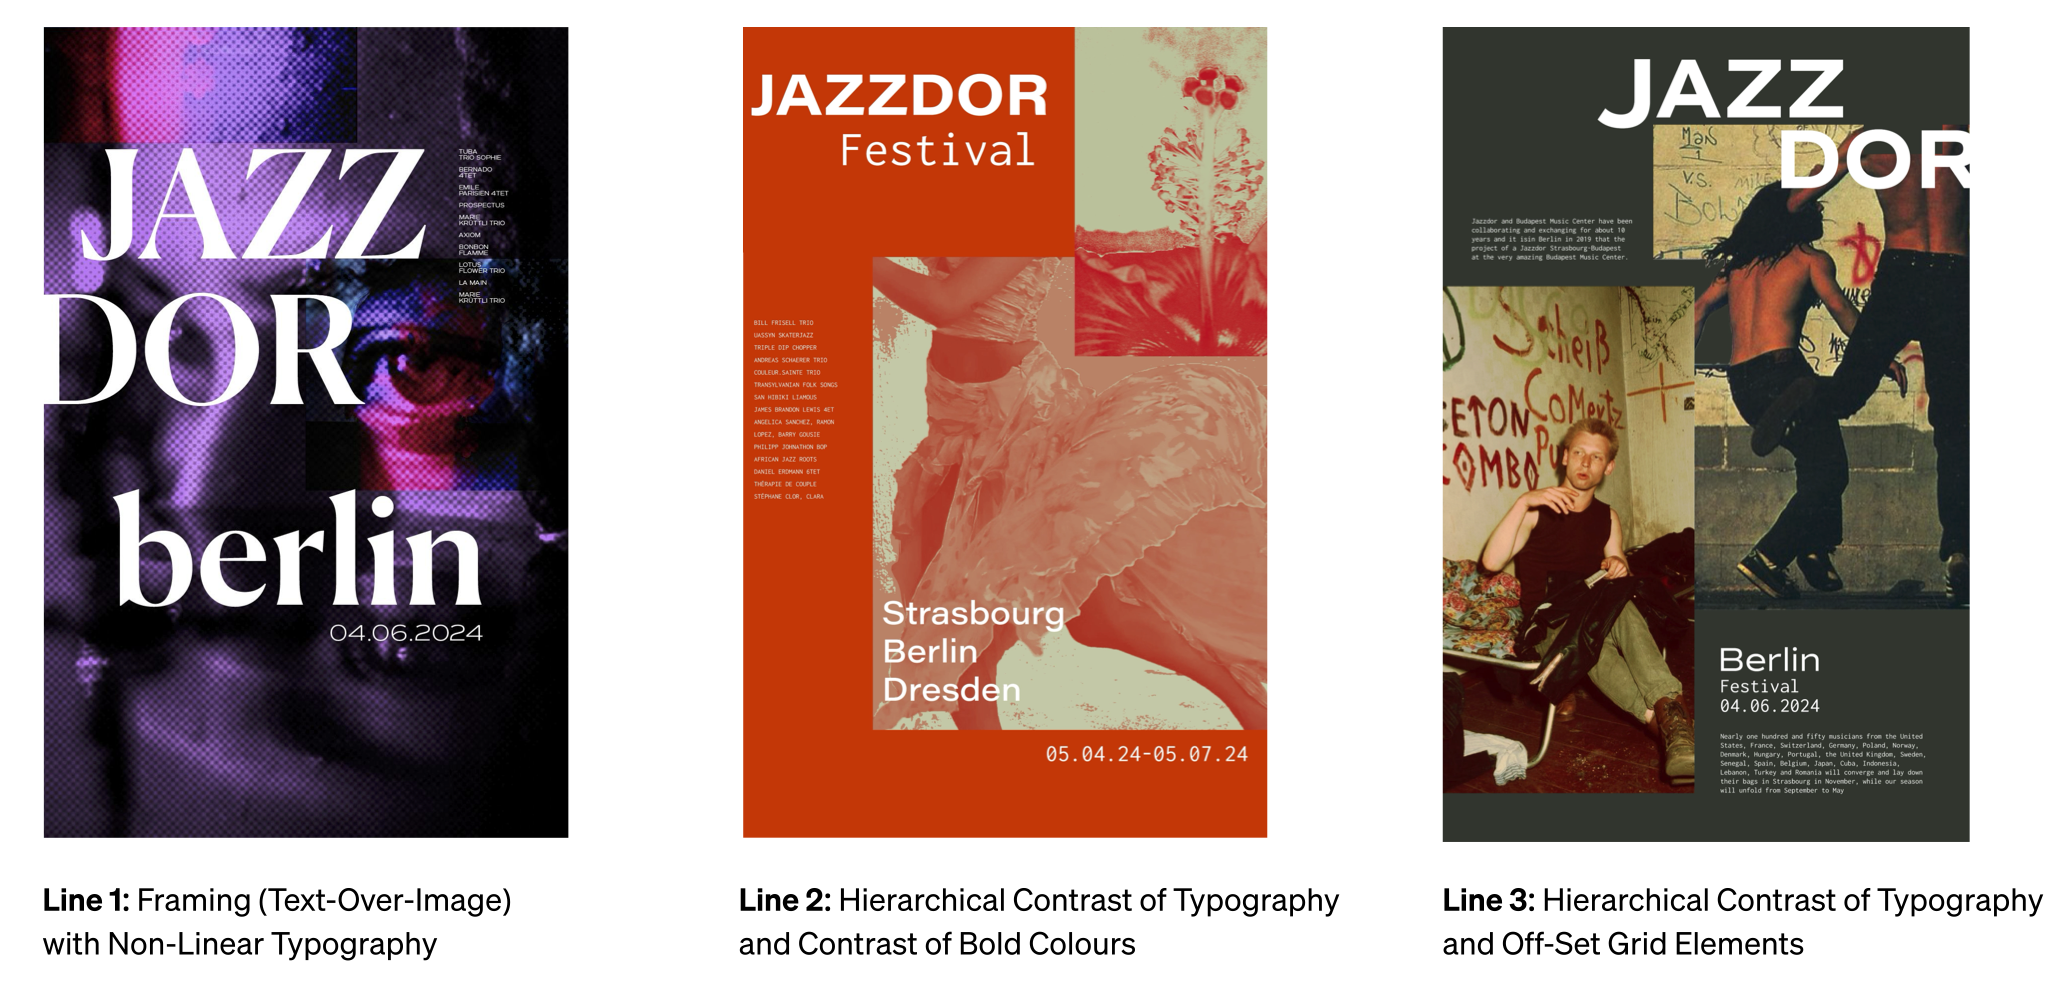
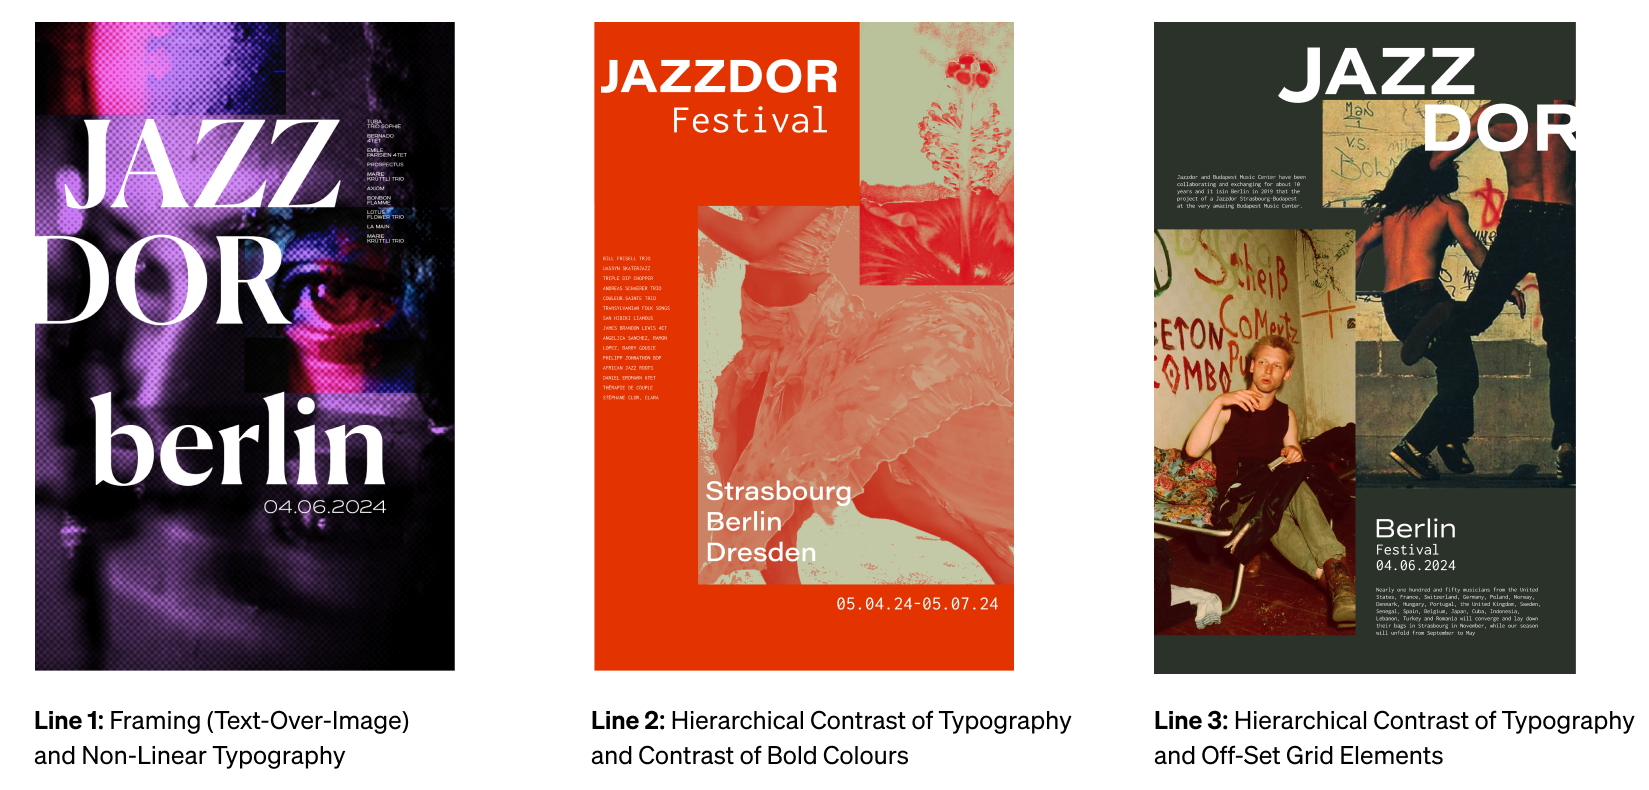
added content into projectpage2

diff --git a/projectPage2.html b/projectPage2.html
@@ -130,7 +130,7 @@
                     <div class="analysis-subsection">
                         <h2 class="analysis-subheading">Dan Friedman Case Study</h2>
                         <p class="subheading-content">
-                            Our team studied on the works of Dan Friedman and his design influence in to postmodern and radical design movements. 
+                            Our team studied the works of Dan Friedman and his design influence in postmodern and radical design movements.
                             We examined his approach to challenge traditional design systems and analyzed other posters that exemplified 
                             Friedman’s qualities to <strong>to create expressive but structured compositions</strong>, 
                             balancing experimentation with visual clarity. 
@@ -173,9 +173,10 @@
                     <div class="analysis-subsection">
                         <h2 class="analysis-subheading">Poster Image Collection and Grouping</h2>
                         <p class="subheading-content">
-                            I conducted a three-part usability study, beginning with open exploration to observe users’ natural behavior, 
-                            followed by task completion to uncover specific pain points, and concluding with a short interview to 
-                            gather feedback and highlight usability issues.
+                            I led the development of the visual direction by defining the mood we wanted to capture, highlighting raw moments of everyday life that convey 
+                            the richness and energy of Berlin’s jazz and street culture. Throughout the process, we aimed to captivate the audience by expressing jazz in 
+                            an authentic and dynamic way, avoiding literal and clichéd images. Our team gathered hundreds of photos and organized them into themes like biking, 
+                            skating, graffiti, and abstract imagery to guide the poster compositions.
                         </p>
                     </div>
 
@@ -188,25 +189,42 @@
             <div id="design-opportunity">
                 <div class="grid-analysis">
                     <div class="analysis-subsection">
-                        <h2 class="analysis-subheading">Poster Making</h2>
+                        <h2 class="analysis-subheading">Searching for a Design Direction</h2>
+                        <p class="subheading-content">
+                            I began experimenting with different ways to combine the design qualities identified during research. 
+                            Multiple iterations were made for each concept to test how text, imagery, and colour interacted within various layouts. 
+                            <strong>Three lines of investigation</strong> emerged from this exploration.
+                        </p>
                     </div>
-
                     <div class="analysis-content">
                         <h3>Initial Lines of Investigation</h3>
                         <img class="subheading-content" src="assets/initialPosters.png" alt=" " width="2010" height="941">
+                    </div>
 
+                    <div class="analysis-subsection">
+                        <h2 class="analysis-subheading">Revised Lines of Investigation: From Experimentation to Clarity</h2>
+                        <p class="subheading-content">
+                            Building on insights from the initial explorations, we used bold colours as a foundation and experimented with different design 
+                            qualities to see how they interacted with the palette. This stage began as an experimental process, <strong>pushing the boundaries of the 
+                            design qualities</strong>, and later shifted to creating <strong>cohesive compositions that balanced readability with visual impact</strong>, strengthening 
+                            the relationships between text and imagery to support the overall design focus.
+                        </p>
+                    </div>
+                    <div class="analysis-content">
                         <h3>Revised Lines of Investigation</h3>
                         <img class="subheading-content" src="assets/revisedPosters.png" alt=" " width="2061" height="987">
-
                     </div>
                 </div>
 
             </div>
-           
             <div id="graphical-assets">
                 <div class="grid-analysis">
                     <div class="analysis-subsection">
                         <h2 class="analysis-subheading">Graphical Assets</h2>
+                        <p class="subheading-content">
+                            As Jazzdor’s identity began to take shape, visual mockups were created for the three revised posters, 
+                            using deliberately selected assets that reflected the audience’s environment and experience. The final set of images highlights the design direction we moved forward with, the pink poster, which stood out and drew attention. The other options were less effective and lacked the same visual presence, guiding the decision to select the pink poster as the final direction.
+                        </p>
                     </div>
 
                     <div class="analysis-content">
